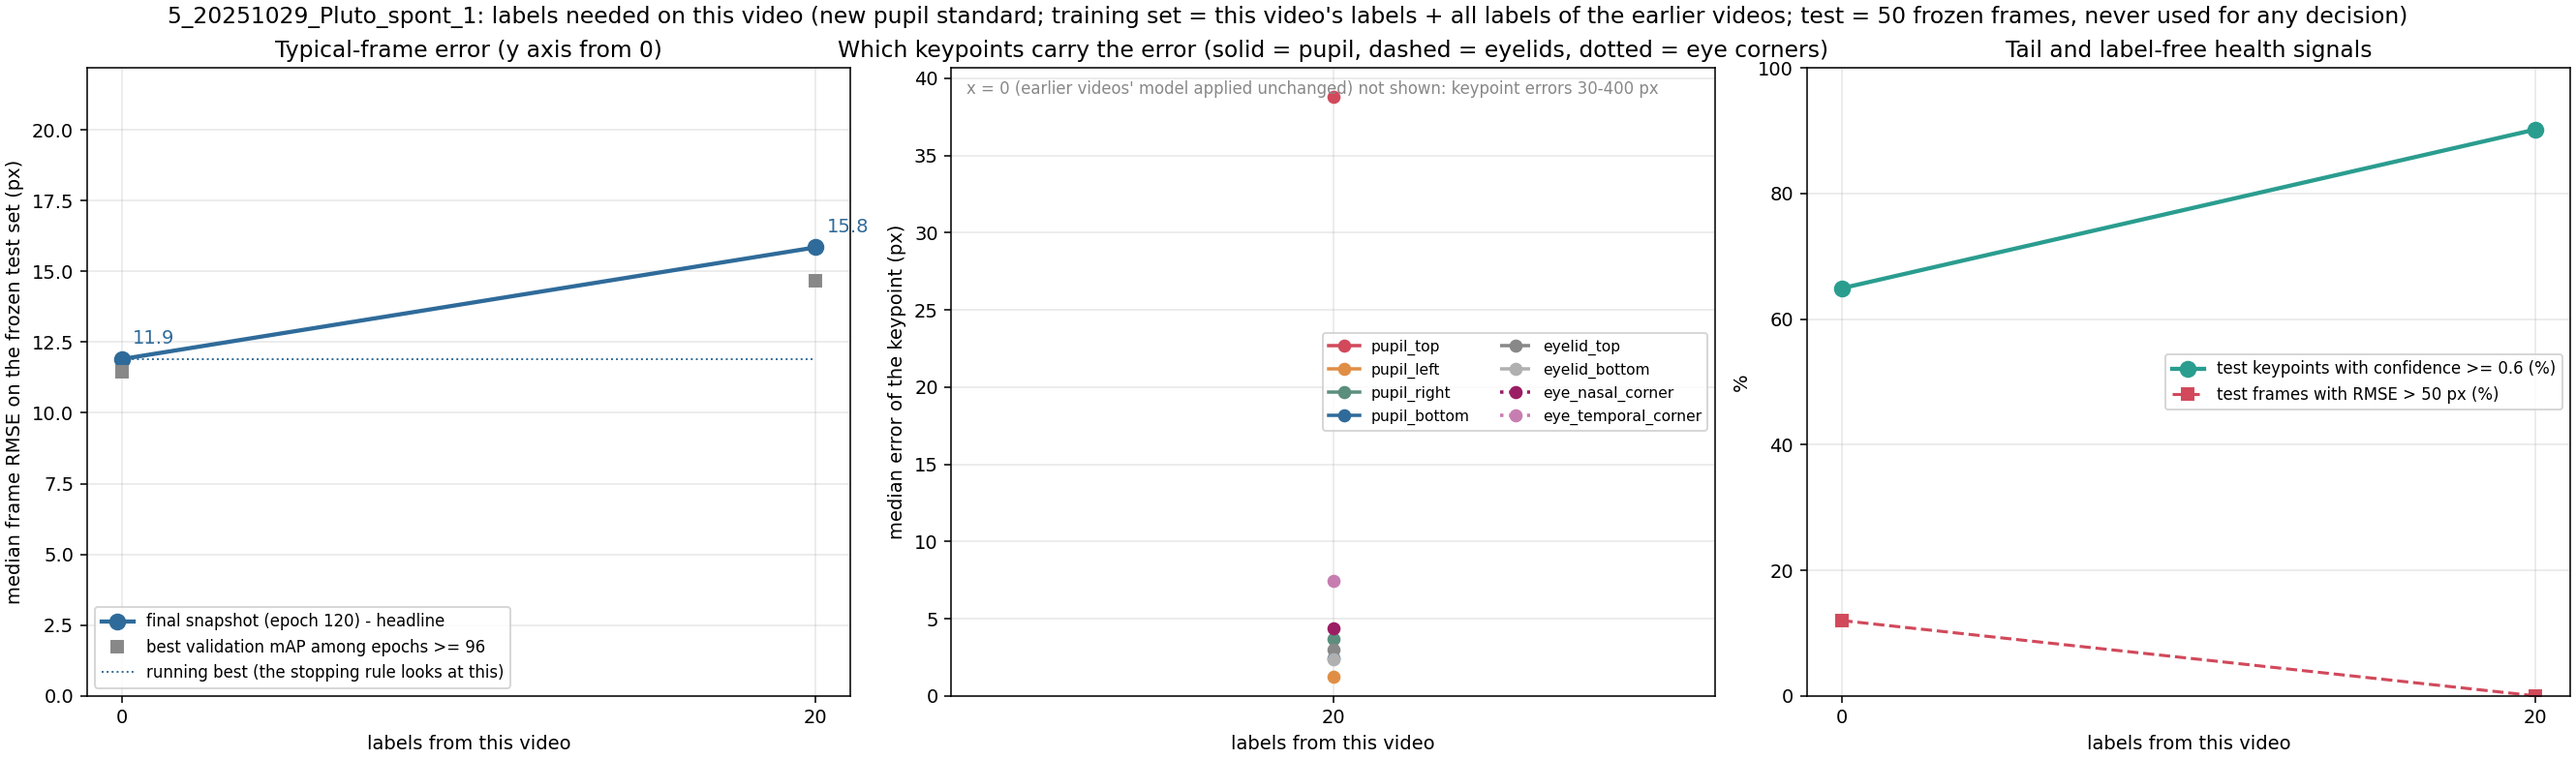
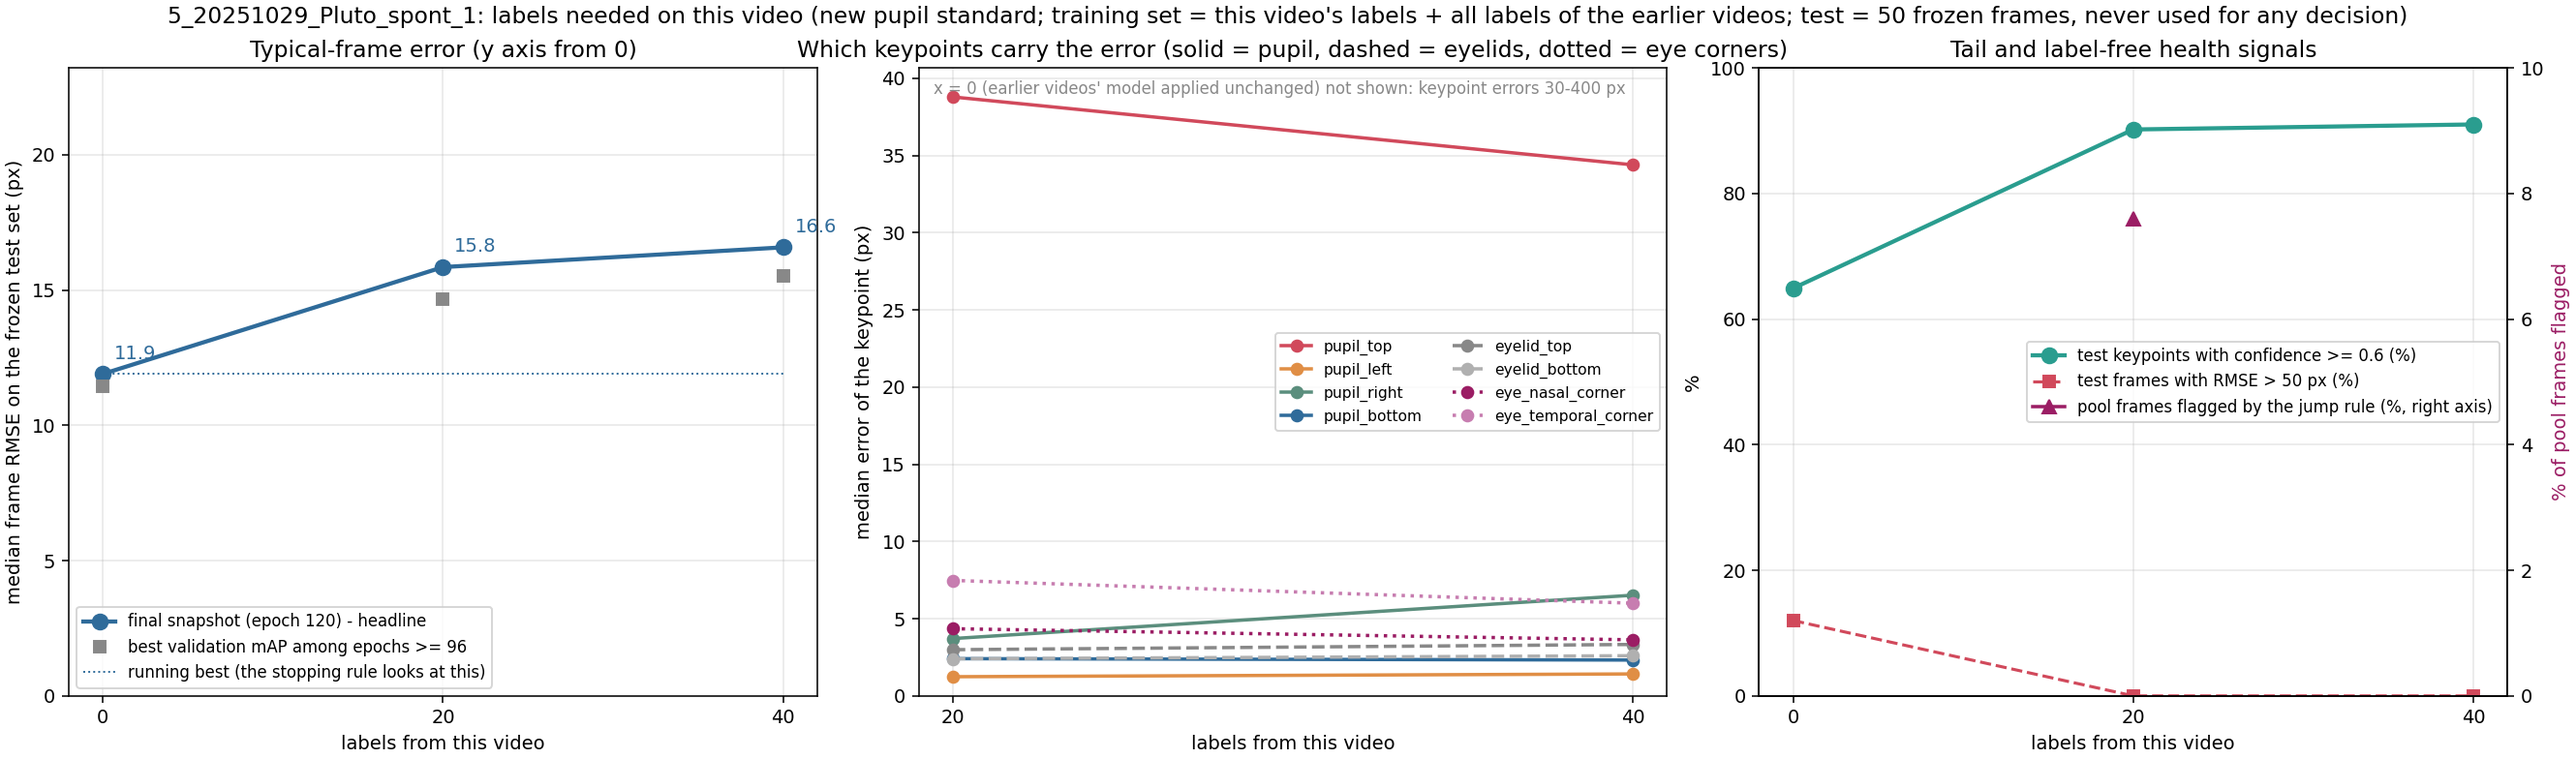
Video 5 v2 step 2: 40 labels = 16.58 px median (p90 22.0); median plateau rule fires at 0 labels, decision pending

diff --git a/README.md b/README.md
@@ -8,7 +8,7 @@ how many human labels are needed, and how few frames must a person correct, befo
 Zhiheng Li (University of Minnesota), with Kaiwen Sheng (Stanford). Raw videos, frames, labels, model weights and
 per-frame predictions stay local; git carries code, documentation and audited aggregate results.
 
-## Status (last updated 2026-09-27 17:22 CDT)
+## Status (last updated 2026-09-27 18:45 CDT)
 
 | what | state |
 |---|---|
@@ -16,7 +16,7 @@ per-frame predictions stay local; git carries code, documentation and audited ag
 | Recipe (frozen) | ResNet-50, batch 2, trained from scratch, 120 epochs, LR drops at 96 / 114; headline = final snapshot, median per-frame RMSE over the 8 keypoints on 50 frozen test frames |
 | Videos done | video 0 (mouse A, 5 min), videos 1-3 (mouse B "Pluto", 2025-10-31) |
 | Finished | **video 4 run 2** (Pluto, 2025-10-30, convention v2): plateau at **40 labels, 15.01 px** (0/20/40/60/80 = 32.11/24.64/15.01/16.82/17.54 px). Run 1 (v1): 140 labels, 14.74 px (archived, tag `v0.8.0-video4-convention1`). Open: the v2 labels mark a much smaller pupil (width 92 vs 215 px) |
-| In progress | **video 5** (Pluto, 2025-10-29, convention v2): 0 labels (video-4 plateau model 532) = 11.90 px (p90 128, 12% of frames > 50 px); 20 labels = 15.85 px (p90 20.2, 0% > 50 px) - median worse, tail much better; user chose to continue, batch02 labeled, step 2 training |
+| In progress | **video 5** (Pluto, 2025-10-29, convention v2): 0 labels (video-4 plateau model 532) = 11.90 px (p90 128, 12% of frames > 50 px); 20 labels = 15.85 px (p90 20.2, 0% > 50 px) - median worse, tail much better; 40 labels = 16.58 px (p90 22.0, 0% > 50 px). The median plateau rule fires at 0 labels, while the 0-label model fails badly on 12% of frames - decision pending, batch03 held |
 | Blink / area analysis | per-video time series in `<video>/results/blink_area_analysis/`; across videos (`new_pupil_top_video_scaling/results/blink_area_consistency.png`): 4-point area better on 7 of 8 test sets; lowest pupil confidence < ~0.2 separates all 16 human closed-eye frames (the production 0.6 cut flags ~half of open frames); area correlates with eye opening in every video |
 | Test-set only | videos 5-8 (2025-10-29 / 28 / 27 / 24): frozen test sets scored by every model so far; videos 9 (10-23) and 10 (10-22): test sets being labeled |
 

diff --git a/new_pupil_top_video_scaling/5_20251029_Pluto_spont_1/results/README.md b/new_pupil_top_video_scaling/5_20251029_Pluto_spont_1/results/README.md
@@ -11,5 +11,6 @@ video's labels; shuffles 631, 632, ... The first attempt (convention v1, 0 label
 |---|---|---|---|---|---|
 | 0 (video-4 run-2 plateau model 532, applied unchanged) | 11.90 px | 128.1 | 12% | 65% | – |
 | 20 (shuffle 631) | 15.85 px | 20.2 | 0% | 90% | 4340 of 57158 (7.6%) |
+| 40 (shuffle 632) | 16.58 px | 22.0 | 0% | 91% | pending |
 
 Eye time series: to be redrawn with a convention-v2 model.
